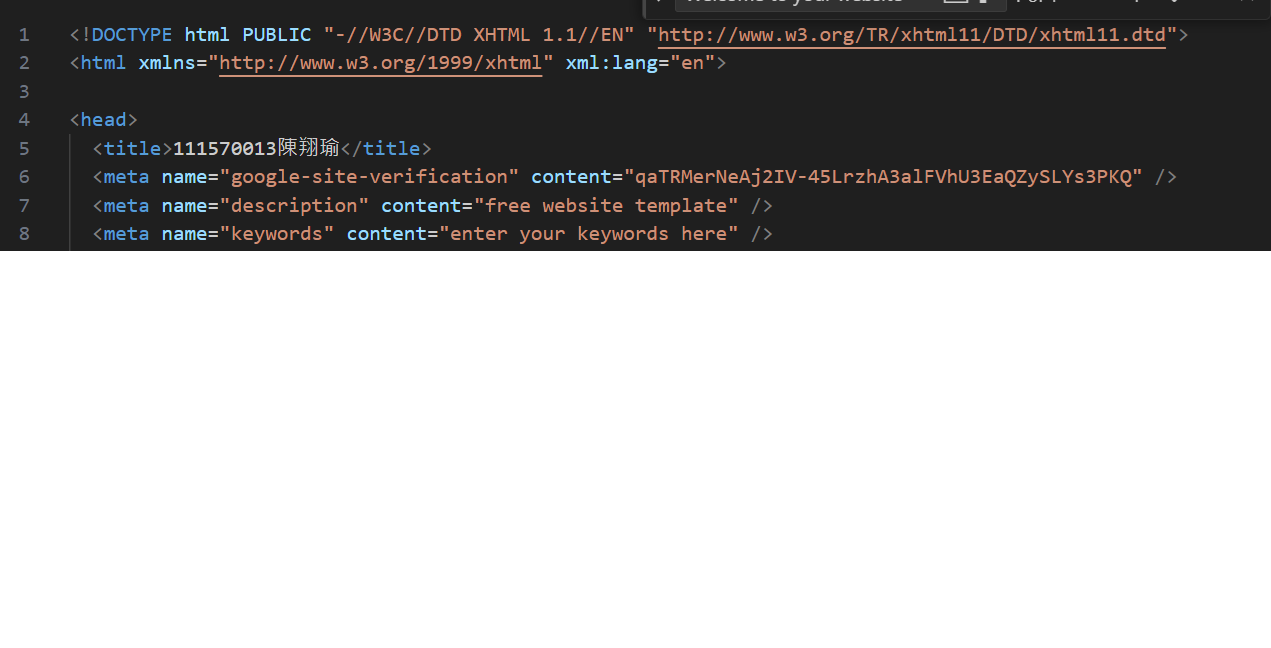
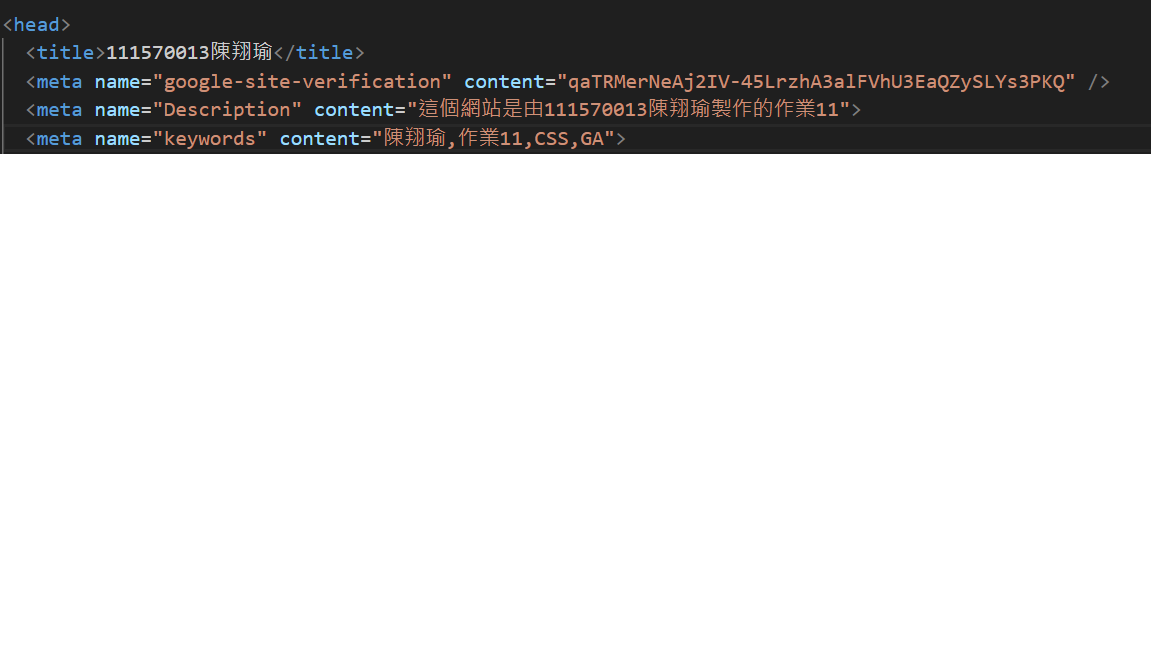
Add files via upload

Changed region(s): [[0.0, 0.0, 1.0, 0.4012]]

diff --git a/a5.html b/a5.html
@@ -4,8 +4,8 @@
 <head>
   <title>111570013陳翔瑜</title>
   <meta name="google-site-verification" content="qaTRMerNeAj2IV-45LrzhA3alFVhU3EaQZySLYs3PKQ" />
-  <meta name="description" content="free website template" />
-  <meta name="keywords" content="enter your keywords here" />
+  <meta name="Description" content="這個網站是由111570013陳翔瑜製作的作業11">
+  <meta name="keywords" content="陳翔瑜,作業11,CSS,GA">
   <meta http-equiv="content-type" content="text/html; charset=utf-8" />
   <link rel="stylesheet" type="text/css" href="css/style.css" />
   <link rel="stylesheet" type="text/css" href="mystyle.css" />
